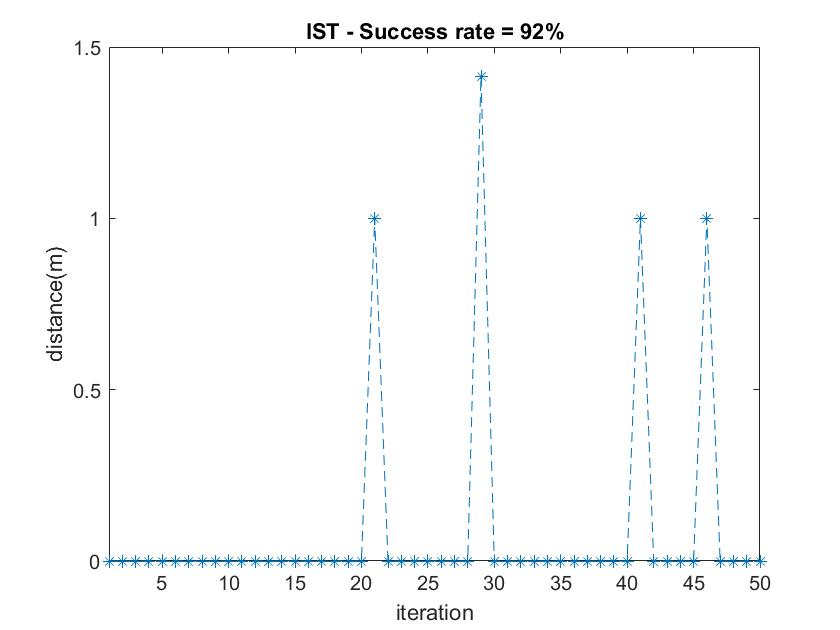
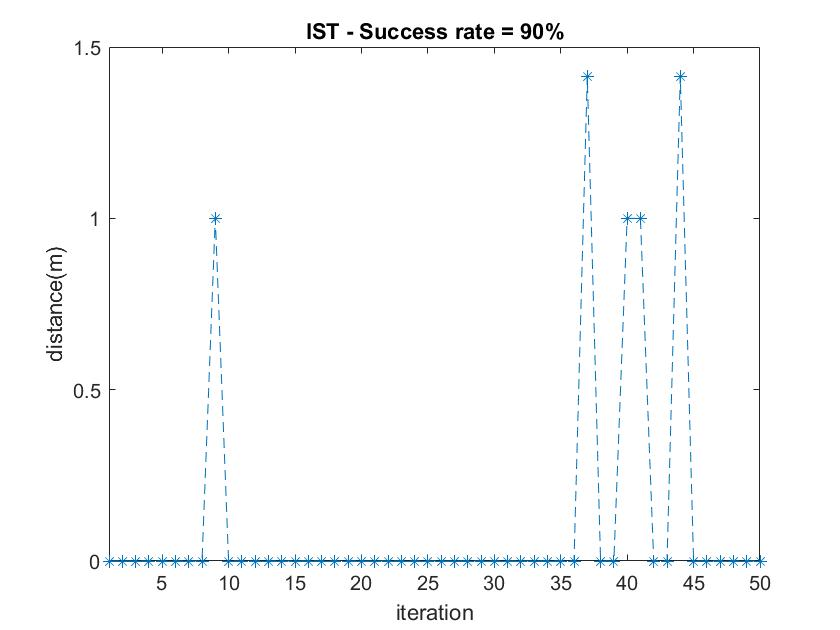
added screenshots

diff --git a/localization_ist.m b/localization_ist.m
@@ -14,7 +14,7 @@ lam = 1e-4;
 tau = 0.7;
 th = 0.5;
 max_iter = 1e4;
-min_eps = 1e-5;
+min_eps = 1e-4;
 success = 0;
 iter=zeros(ni, 1);
 dist=zeros(ni, 1);

diff --git a/tracking_casual.m b/tracking_casual.m
@@ -12,8 +12,8 @@ figure(1), hold on
 
 lam = 1e-4;
 tau = 0.7;
-max_iter = 1e2;
-min_eps = 1e-6;
+max_iter = 1e3;
+min_eps = 1e-4;
 success = 0;
 
 ni = 50;

diff --git a/localization_dist.m b/localization_dist.m
@@ -12,7 +12,7 @@ ni=50;
 lam = 1e-4;
 tau = 0.7;
 max_iter = 1e4;
-min_eps = 1e-6;
+min_eps = 1e-4;
 success = 0;
 iter=zeros(ni,1);
 dist=zeros(ni, 1);

diff --git a/tracking_diagonal.m b/tracking_diagonal.m
@@ -13,7 +13,7 @@ figure(1), hold on
 lam = 1e-4;
 tau = 0.7;
 max_iter = 1e2;
-min_eps = 1e-6;
+min_eps = 1e-4;
 success = 0;
 
 ni = l_room;
